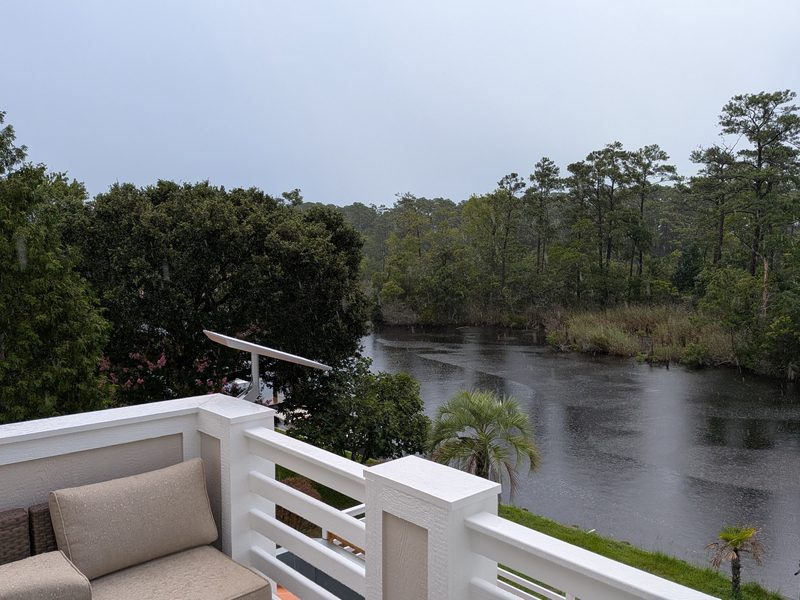
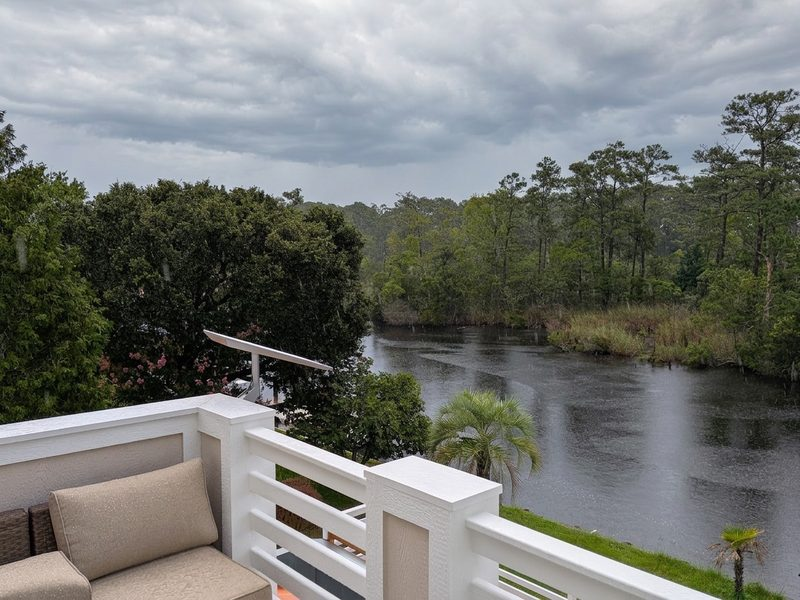
Jamieson: the uplink shot on the homepage, the straight photo on Starlink
Ray picked the beam version of his own waterfront install. It goes on the
homepage and on every social card, because that image is what earns a click
in a feed.

The caption says "our own photo, uplink illustrated" — a visible beam is
obviously a graphic, but the page shouldn't leave it unsaid.

starlink.html keeps the untouched photograph (colour-corrected only). That
page is where a buyer goes looking for evidence, so the evidence stays real.

Claude-Session: https://claude.ai/code/session_01YXcUTCVaxQYCoghA18zKvq

diff --git a/websites/jamieson-automation/index.html b/websites/jamieson-automation/index.html
@@ -3,7 +3,7 @@
 <head>
 <meta charset="utf-8">
 <meta name="viewport" content="width=device-width,initial-scale=1">
- <meta property="og:image" content="https://www.jamiesonautomation.com/img/starlink-waterfront-home-outer-banks.jpg">
+ <meta property="og:image" content="https://www.jamiesonautomation.com/img/starlink-uplink-waterfront-obx.jpg">
  <meta name="twitter:card" content="summary_large_image">
  <link rel="icon" href="/brand/mark-navy.svg" type="image/svg+xml">
  <link rel="apple-touch-icon" href="/brand/mark-navy.svg">
@@ -78,7 +78,7 @@
 <section class="dark"><div class="wrap"><div class="split">
  <div>
  <div class="kicker">The Jamieson difference</div>
- <figure class="shot"><img src="/img/starlink-waterfront-home-outer-banks.jpg" width="1600" height="1200" alt="Starlink installed at a waterfront home on the Outer Banks, overlooking the sound in the rain"><figcaption>A waterfront install on the sound. Real job, real weather.</figcaption></figure><h2>We're consultants, not box-pushers.</h2>
+ <figure class="shot"><img src="/img/starlink-uplink-waterfront-obx.jpg" width="1600" height="1200" alt="Starlink dish installed at a waterfront home on the Outer Banks, with an illustrated satellite uplink"><figcaption>A waterfront install on the sound — our own photo, uplink illustrated.</figcaption></figure><h2>We're consultants, not box-pushers.</h2>
  <p>Anyone can sell you a smart lock. The reason yours keeps going offline is almost always the wifi at the door — and that's exactly what most installers skip. We diagnose the whole system first, then build it to last.</p>
  <p>You get an honest recommendation, clean professional work, everything tested the way you'll actually use it, and a real local person to call. That's worth more than the cheapest quote.</p>
  <p>Our pricing is simple: a <strong>flat published rate for the install</strong>, and equipment billed at <strong>our cost with no markup</strong> — you're even welcome to buy the gear yourself. You pay for expertise, not marked-up hardware.</p>

diff --git a/websites/jamieson-automation/avon.html b/websites/jamieson-automation/avon.html
@@ -1,6 +1,6 @@
 <!DOCTYPE html>
 <html lang="en"><head><meta charset="utf-8"><meta name="viewport" content="width=device-width,initial-scale=1">
- <meta property="og:image" content="https://www.jamiesonautomation.com/img/starlink-waterfront-home-outer-banks.jpg">
+ <meta property="og:image" content="https://www.jamiesonautomation.com/img/starlink-uplink-waterfront-obx.jpg">
  <meta name="twitter:card" content="summary_large_image">
  <link rel="icon" href="/brand/mark-navy.svg" type="image/svg+xml">
  <link rel="apple-touch-icon" href="/brand/mark-navy.svg">

diff --git a/websites/jamieson-automation/best-smart-locks-obx-vacation-rentals.html b/websites/jamieson-automation/best-smart-locks-obx-vacation-rentals.html
@@ -1,6 +1,6 @@
 <!DOCTYPE html>
 <html lang="en"><head><meta charset="utf-8"><meta name="viewport" content="width=device-width,initial-scale=1">
- <meta property="og:image" content="https://www.jamiesonautomation.com/img/starlink-waterfront-home-outer-banks.jpg">
+ <meta property="og:image" content="https://www.jamiesonautomation.com/img/starlink-uplink-waterfront-obx.jpg">
  <meta name="twitter:card" content="summary_large_image">
  <link rel="icon" href="/brand/mark-navy.svg" type="image/svg+xml">
  <link rel="apple-touch-icon" href="/brand/mark-navy.svg">

diff --git a/websites/jamieson-automation/blog.html b/websites/jamieson-automation/blog.html
@@ -1,6 +1,6 @@
 <!DOCTYPE html>
 <html lang="en"><head><meta charset="utf-8"><meta name="viewport" content="width=device-width,initial-scale=1">
- <meta property="og:image" content="https://www.jamiesonautomation.com/img/starlink-waterfront-home-outer-banks.jpg">
+ <meta property="og:image" content="https://www.jamiesonautomation.com/img/starlink-uplink-waterfront-obx.jpg">
  <meta name="twitter:card" content="summary_large_image">
  <link rel="icon" href="/brand/mark-navy.svg" type="image/svg+xml">
  <link rel="apple-touch-icon" href="/brand/mark-navy.svg">

diff --git a/websites/jamieson-automation/buxton.html b/websites/jamieson-automation/buxton.html
@@ -1,6 +1,6 @@
 <!DOCTYPE html>
 <html lang="en"><head><meta charset="utf-8"><meta name="viewport" content="width=device-width,initial-scale=1">
- <meta property="og:image" content="https://www.jamiesonautomation.com/img/starlink-waterfront-home-outer-banks.jpg">
+ <meta property="og:image" content="https://www.jamiesonautomation.com/img/starlink-uplink-waterfront-obx.jpg">
  <meta name="twitter:card" content="summary_large_image">
  <link rel="icon" href="/brand/mark-navy.svg" type="image/svg+xml">
  <link rel="apple-touch-icon" href="/brand/mark-navy.svg">

diff --git a/websites/jamieson-automation/case-studies.html b/websites/jamieson-automation/case-studies.html
@@ -1,6 +1,6 @@
 <!DOCTYPE html>
 <html lang="en"><head><meta charset="utf-8"><meta name="viewport" content="width=device-width,initial-scale=1">
- <meta property="og:image" content="https://www.jamiesonautomation.com/img/starlink-waterfront-home-outer-banks.jpg">
+ <meta property="og:image" content="https://www.jamiesonautomation.com/img/starlink-uplink-waterfront-obx.jpg">
  <meta name="twitter:card" content="summary_large_image">
  <link rel="icon" href="/brand/mark-navy.svg" type="image/svg+xml">
  <link rel="apple-touch-icon" href="/brand/mark-navy.svg">

diff --git a/websites/jamieson-automation/corolla.html b/websites/jamieson-automation/corolla.html
@@ -1,6 +1,6 @@
 <!DOCTYPE html>
 <html lang="en"><head><meta charset="utf-8"><meta name="viewport" content="width=device-width,initial-scale=1">
- <meta property="og:image" content="https://www.jamiesonautomation.com/img/starlink-waterfront-home-outer-banks.jpg">
+ <meta property="og:image" content="https://www.jamiesonautomation.com/img/starlink-uplink-waterfront-obx.jpg">
  <meta name="twitter:card" content="summary_large_image">
  <link rel="icon" href="/brand/mark-navy.svg" type="image/svg+xml">
  <link rel="apple-touch-icon" href="/brand/mark-navy.svg">

diff --git a/websites/jamieson-automation/do-you-need-mesh-network-obx.html b/websites/jamieson-automation/do-you-need-mesh-network-obx.html
@@ -1,6 +1,6 @@
 <!DOCTYPE html>
 <html lang="en"><head><meta charset="utf-8"><meta name="viewport" content="width=device-width,initial-scale=1">
- <meta property="og:image" content="https://www.jamiesonautomation.com/img/starlink-waterfront-home-outer-banks.jpg">
+ <meta property="og:image" content="https://www.jamiesonautomation.com/img/starlink-uplink-waterfront-obx.jpg">
  <meta name="twitter:card" content="summary_large_image">
  <link rel="icon" href="/brand/mark-navy.svg" type="image/svg+xml">
  <link rel="apple-touch-icon" href="/brand/mark-navy.svg">

diff --git a/websites/jamieson-automation/duck.html b/websites/jamieson-automation/duck.html
@@ -1,6 +1,6 @@
 <!DOCTYPE html>
 <html lang="en"><head><meta charset="utf-8"><meta name="viewport" content="width=device-width,initial-scale=1">
- <meta property="og:image" content="https://www.jamiesonautomation.com/img/starlink-waterfront-home-outer-banks.jpg">
+ <meta property="og:image" content="https://www.jamiesonautomation.com/img/starlink-uplink-waterfront-obx.jpg">
  <meta name="twitter:card" content="summary_large_image">
  <link rel="icon" href="/brand/mark-navy.svg" type="image/svg+xml">
  <link rel="apple-touch-icon" href="/brand/mark-navy.svg">

diff --git a/websites/jamieson-automation/frisco.html b/websites/jamieson-automation/frisco.html
@@ -1,6 +1,6 @@
 <!DOCTYPE html>
 <html lang="en"><head><meta charset="utf-8"><meta name="viewport" content="width=device-width,initial-scale=1">
- <meta property="og:image" content="https://www.jamiesonautomation.com/img/starlink-waterfront-home-outer-banks.jpg">
+ <meta property="og:image" content="https://www.jamiesonautomation.com/img/starlink-uplink-waterfront-obx.jpg">
  <meta name="twitter:card" content="summary_large_image">
  <link rel="icon" href="/brand/mark-navy.svg" type="image/svg+xml">
  <link rel="apple-touch-icon" href="/brand/mark-navy.svg">

diff --git a/websites/jamieson-automation/hatteras.html b/websites/jamieson-automation/hatteras.html
@@ -1,6 +1,6 @@
 <!DOCTYPE html>
 <html lang="en"><head><meta charset="utf-8"><meta name="viewport" content="width=device-width,initial-scale=1">
- <meta property="og:image" content="https://www.jamiesonautomation.com/img/starlink-waterfront-home-outer-banks.jpg">
+ <meta property="og:image" content="https://www.jamiesonautomation.com/img/starlink-uplink-waterfront-obx.jpg">
  <meta name="twitter:card" content="summary_large_image">
  <link rel="icon" href="/brand/mark-navy.svg" type="image/svg+xml">
  <link rel="apple-touch-icon" href="/brand/mark-navy.svg">

diff --git a/websites/jamieson-automation/kill-devil-hills.html b/websites/jamieson-automation/kill-devil-hills.html
@@ -1,6 +1,6 @@
 <!DOCTYPE html>
 <html lang="en"><head><meta charset="utf-8"><meta name="viewport" content="width=device-width,initial-scale=1">
- <meta property="og:image" content="https://www.jamiesonautomation.com/img/starlink-waterfront-home-outer-banks.jpg">
+ <meta property="og:image" content="https://www.jamiesonautomation.com/img/starlink-uplink-waterfront-obx.jpg">
  <meta name="twitter:card" content="summary_large_image">
  <link rel="icon" href="/brand/mark-navy.svg" type="image/svg+xml">
  <link rel="apple-touch-icon" href="/brand/mark-navy.svg">
